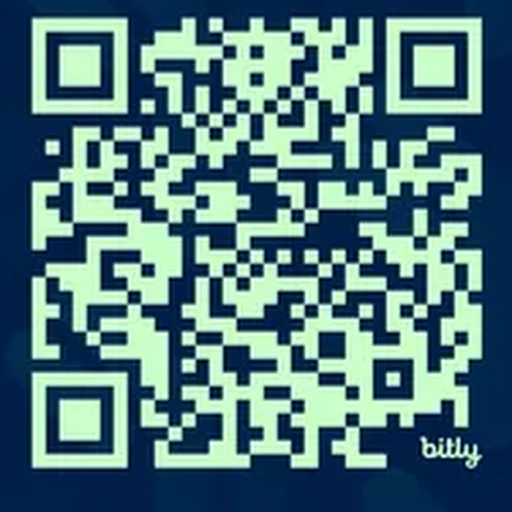
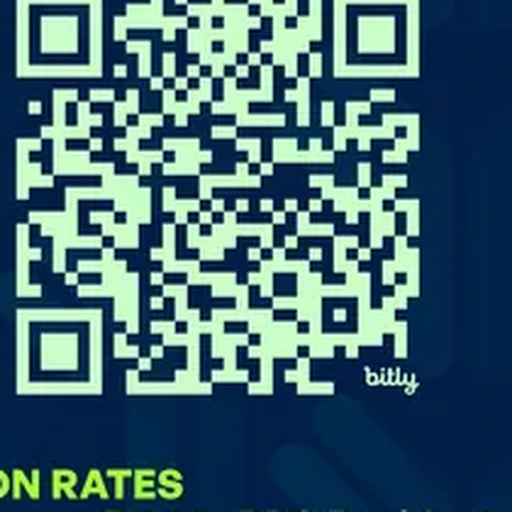
Use mint Bitly QR and restore side-by-side register layout
Swap in the navy-on-mint QR asset and put the registration block
back to QR left / details right.

diff --git a/src/index.css b/src/index.css
@@ -2363,34 +2363,26 @@ button {
 
 /* ——— Registration QR ——— */
 .register-qr {
-  display: flex;
-  flex-direction: column;
+  display: grid;
+  grid-template-columns: minmax(0, 240px) minmax(0, 1fr);
+  gap: clamp(1.5rem, 4vw, 2.75rem);
   align-items: center;
-  gap: clamp(1.5rem, 4vw, 2.25rem);
   margin-top: 1.5rem;
-  width: 100%;
 }
 
 .register-qr__frame {
   margin: 0 auto;
   text-align: center;
-  display: flex;
-  flex-direction: column;
-  align-items: center;
-  width: 100%;
-  max-width: 240px;
 }
 
 .register-qr__image {
-  width: 220px;
-  height: 220px;
+  width: min(100%, 220px);
   margin: 0 auto;
-  object-fit: contain;
-  object-position: center;
   border-radius: 12px;
   border: 1px solid rgba(61, 184, 255, 0.25);
   box-shadow: 0 16px 40px rgba(0, 0, 0, 0.35);
   display: block;
+  background: #c8f5d8;
 }
 
 .register-qr__caption {
@@ -2400,13 +2392,10 @@ button {
   letter-spacing: var(--ls-caps);
   text-transform: uppercase;
   color: var(--accent-mint);
-  text-align: center;
 }
 
 .register-qr__details {
-  text-align: center;
-  width: min(100%, 520px);
-  margin: 0 auto;
+  text-align: left;
 }
 
 .register-qr__note {
@@ -2486,13 +2475,12 @@ button {
   .register-qr__frame {
     width: 100%;
     max-width: 240px;
-    align-items: center;
   }
 
   .register-qr__image {
-    width: 200px;
-    height: 200px;
-    max-width: 200px;
+    width: 100%;
+    max-width: 220px;
+    height: auto;
   }
 
   .register-qr__details {
